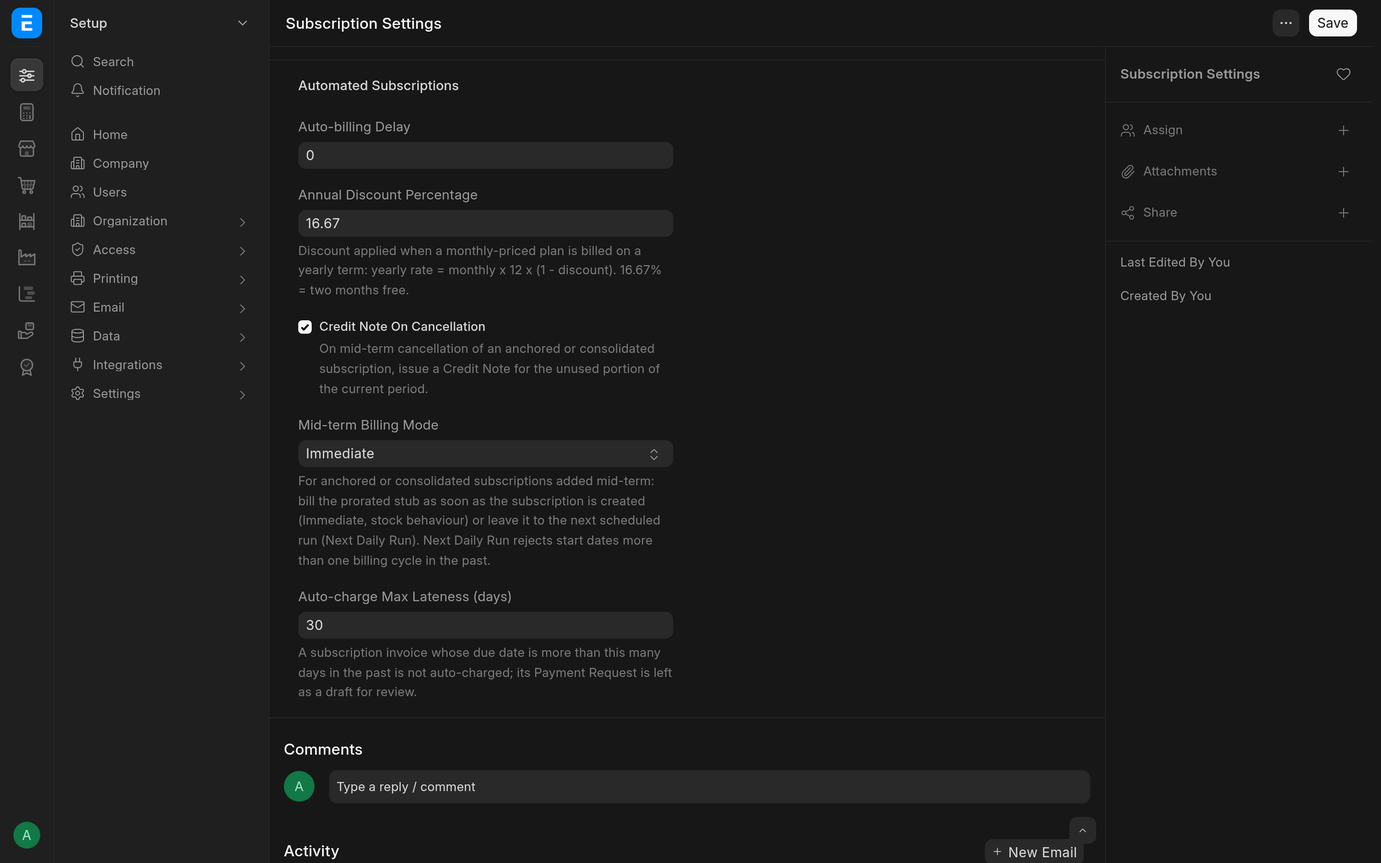
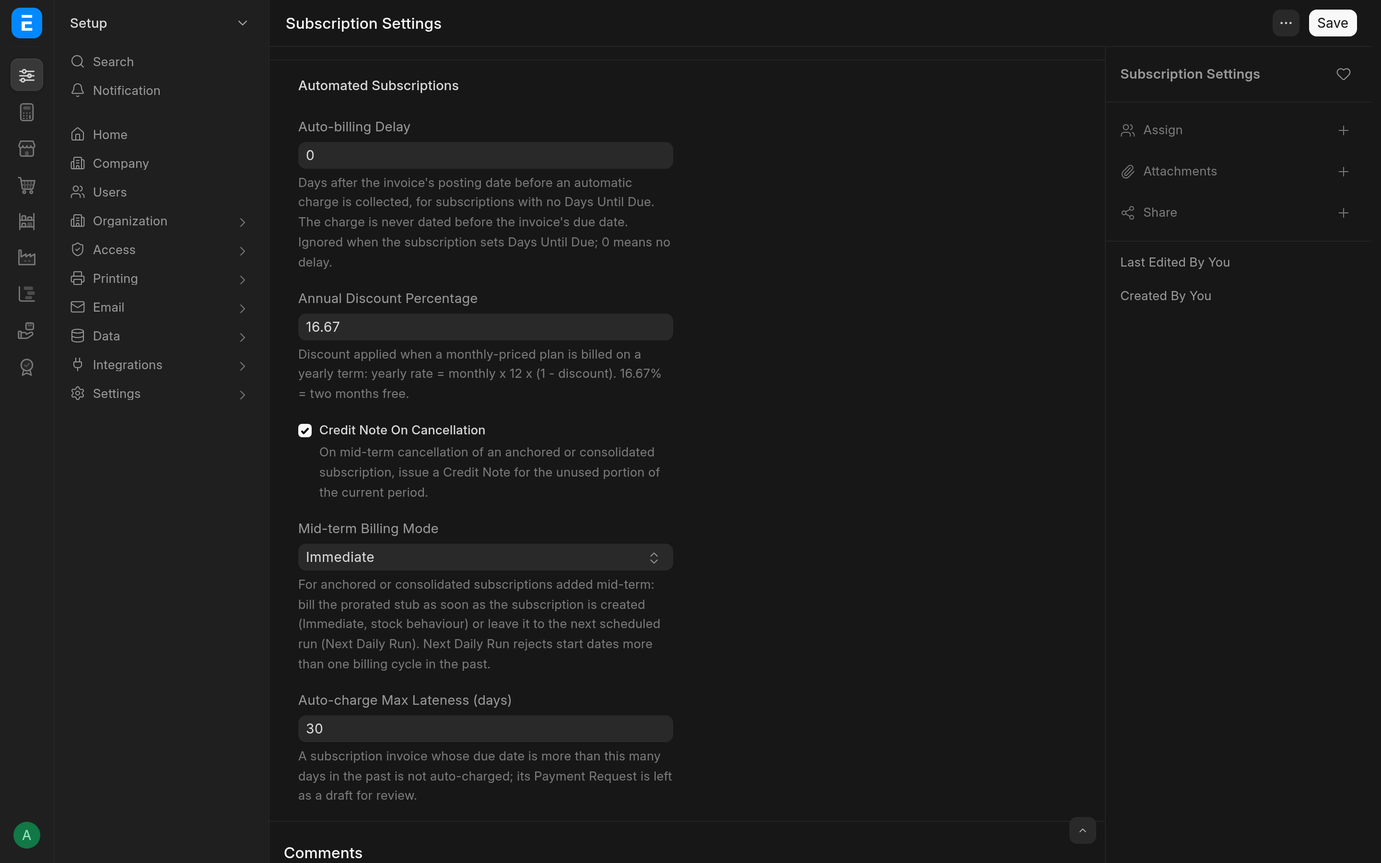
fix(payment-request): restore Auto-billing Delay as the Days Until Due fallback
The engine rewrite dated every subscription Payment Request on the invoice's
due date and stopped reading Subscription Settings > Auto-billing Delay. Read
it again with the semantics it had before the rewrite: when none of the
invoice's subscriptions sets Days Until Due and the delay is above 0, the
collection date is posting date + delay, but never earlier than the due date.
With Days Until Due, or a delay of 0 or blank, the collection date stays the
due date. The stale-invoice check keeps using the due date.

The field gets a description and a non-negative constraint, the README and
docs describe it and the Limitations entry is gone.

Claude-Session: https://claude.ai/code/session_01SvdEeMiewirZ3ifFoUix5F

Changed region(s): [[0.1875, 0.1867, 0.4688, 0.9333], [0.7188, 0.9644, 0.7812, 0.9956], [0.1875, 0.9644, 0.25, 0.9956]]

diff --git a/automated_subscriptions/automated_subscriptions/tests/test_payment_request.py b/automated_subscriptions/automated_subscriptions/tests/test_payment_request.py
@@ -85,6 +85,7 @@ class TestPaymentRequest(IntegrationTestCase):
 		frappe.clear_document_cache("Customer", CUSTOMER)
 		frappe.db.set_single_value("Selling Settings", "allow_multiple_items", 1)
 		frappe.db.set_single_value("Subscription Settings", "auto_charge_max_lateness_days", 30)
+		frappe.db.set_single_value("Subscription Settings", "auto_billing_delay", 0)
 		frappe.flags.subscription_billing = None
 		self.account = make_gateway_account(GATEWAY)
 		set_plan_gateway(MONTH_PLAN, self.account)
@@ -97,14 +98,14 @@ class TestPaymentRequest(IntegrationTestCase):
 		super().tearDown()
 
 	# ---- fixtures
-	def make_sub(self, plan, start_date=None):
+	def make_sub(self, plan, start_date=None, days_until_due=0):
 		sub = create_subscription(
 			party=CUSTOMER,
 			start_date=start_date or self.today,
 			plans=[{"plan": plan, "qty": 1}],
 			generate_invoice_at=BEGINNING,
 			submit_invoice=0,
-			days_until_due=0,  # the customer's NET15 template sets the due date
+			days_until_due=days_until_due,  # 0: the customer's NET15 template sets the due date
 			do_not_save=True,
 		)
 		frappe.flags.in_import = True  # insert without core's catch-up billing
@@ -114,11 +115,11 @@ class TestPaymentRequest(IntegrationTestCase):
 			frappe.flags.in_import = False
 		return get_subscription(sub.name)
 
-	def make_invoice(self, plans=(MONTH_PLAN,), posting_date=None, submit=True):
+	def make_invoice(self, plans=(MONTH_PLAN,), posting_date=None, submit=True, days_until_due=0, due_in=15):
 		"""One subscription per plan; the first sub's own draft (posting_date = its period start) carries the
 		other subs' lines, like a consolidated invoice. Submitting fires the on_submit hook."""
 		posting_date = posting_date or self.today
-		subs = [self.make_sub(plan, posting_date) for plan in plans]
+		subs = [self.make_sub(plan, posting_date, days_until_due) for plan in plans]
 		invoice = subs[0].create_invoice()
 		for sub, plan in zip(subs[1:], plans[1:], strict=True):
 			invoice.append(
@@ -135,7 +136,7 @@ class TestPaymentRequest(IntegrationTestCase):
 			)
 		invoice.save()
 		self.assertEqual(as_date(invoice.posting_date), as_date(posting_date))
-		self.assertEqual(as_date(invoice.due_date), as_date(add_days(posting_date, 15)))
+		self.assertEqual(as_date(invoice.due_date), as_date(add_days(posting_date, due_in)))
 		if submit:
 			invoice.submit()
 		return invoice
@@ -320,3 +321,130 @@ class TestPaymentRequest(IntegrationTestCase):
 		data = charge.call_args.args[0]
 		self.assertEqual(data["mandate"], "MD000AUTOSUBTEST")
 		self.assertEqual(data["charge_date"], str(as_date(invoice.due_date)))
+
+	# ---- (k) Auto-billing Delay: the fallback for subscriptions without Days Until Due
+	def set_delay(self, days):
+		frappe.db.set_single_value("Subscription Settings", "auto_billing_delay", days)
+
+	def drop_payment_terms(self):
+		frappe.db.set_value("Customer", CUSTOMER, "payment_terms", None)
+		frappe.clear_document_cache("Customer", CUSTOMER)
+
+	def charged_on(self, invoice):
+		pr = self.single_request(invoice)
+		self.assertEqual(pr.docstatus, 1)
+		return as_date(pr.transaction_date)
+
+	def test_delay_applies_without_days_until_due(self):
+		"""No payment terms and no Days Until Due: the invoice is due on its posting date and the charge is
+		collected Auto-billing Delay days later (posting date + delay, as before the engine rewrite)."""
+		self.drop_payment_terms()
+		self.set_delay(5)
+		with patch.object(PaymentRequest, VALIDATION, return_value=False):
+			invoice = self.make_invoice(due_in=0)
+		self.assertEqual(self.charged_on(invoice), as_date(add_days(invoice.posting_date, 5)))
+
+	def test_delay_never_collects_before_the_due_date(self):
+		"""With payment terms (NET15) and no Days Until Due, posting date + delay wins only when it is later
+		than the due date: the delay can move a charge later, never earlier."""
+		self.set_delay(20)
+		with patch.object(PaymentRequest, VALIDATION, return_value=False):
+			invoice = self.make_invoice()
+		self.assertEqual(self.charged_on(invoice), as_date(add_days(invoice.posting_date, 20)))
+
+		self.set_delay(5)
+		with patch.object(PaymentRequest, VALIDATION, return_value=False):
+			invoice = self.make_invoice()
+		self.assertEqual(self.charged_on(invoice), as_date(invoice.due_date))
+		self.assertEqual(self.charged_on(invoice), as_date(add_days(invoice.posting_date, 15)))
+
+	def test_delay_ignored_with_days_until_due(self):
+		"""A subscription with Days Until Due dates its invoice's due date itself; the delay does not apply,
+		even when it is longer."""
+		self.drop_payment_terms()
+		self.set_delay(20)
+		with patch.object(PaymentRequest, VALIDATION, return_value=False):
+			invoice = self.make_invoice(days_until_due=10, due_in=10)
+		self.assertEqual(self.charged_on(invoice), as_date(add_days(invoice.posting_date, 10)))
+
+	def test_delay_ignored_when_any_line_sets_days_until_due(self):
+		"""Consolidated invoices group subscriptions by Days Until Due, so they agree; if a hand-built invoice
+		mixes them, one subscription with Days Until Due is enough to keep the due date."""
+		self.drop_payment_terms()
+		self.set_delay(20)
+		set_plan_gateway(MONTH_PLAN_2, self.account)  # core checks the header subscription's plans' gateway
+		posting = self.today
+		with_due = self.make_sub(MONTH_PLAN, posting, days_until_due=10)
+		without_due = self.make_sub(MONTH_PLAN_2, posting)
+		invoice = without_due.create_invoice()
+		invoice.append(
+			"items",
+			{
+				"item_code": ITEM,
+				"qty": 1,
+				"rate": 900,
+				"subscription": with_due.name,
+				"subscription_plan": MONTH_PLAN,
+				"subscription_period_start": with_due.current_invoice_start,
+				"subscription_period_end": with_due.current_invoice_end,
+			},
+		)
+		invoice.save()
+		self.assertEqual(as_date(invoice.due_date), as_date(posting))
+		with patch.object(PaymentRequest, VALIDATION, return_value=False):
+			invoice.submit()
+		self.assertEqual(self.charged_on(invoice), as_date(posting))
+
+	def test_zero_or_blank_delay_is_no_delay(self):
+		self.drop_payment_terms()
+		self.set_delay(0)
+		with patch.object(PaymentRequest, VALIDATION, return_value=False):
+			invoice = self.make_invoice(due_in=0)
+		self.assertEqual(self.charged_on(invoice), as_date(invoice.posting_date))
+
+		# blank: no tabSingles row at all (a site that never saved the field)
+		frappe.db.delete("Singles", {"doctype": "Subscription Settings", "field": "auto_billing_delay"})
+		frappe.clear_document_cache("Subscription Settings", "Subscription Settings")
+		with patch.object(PaymentRequest, VALIDATION, return_value=False):
+			invoice = self.make_invoice(due_in=0)
+		self.assertEqual(self.charged_on(invoice), as_date(invoice.posting_date))
+
+		# a negative value (written past the form's non-negative check) is treated as no delay
+		self.set_delay(-5)
+		with patch.object(PaymentRequest, VALIDATION, return_value=False):
+			invoice = self.make_invoice(due_in=0)
+		self.assertEqual(self.charged_on(invoice), as_date(invoice.posting_date))
+
+	def test_delay_does_not_revive_a_stale_invoice(self):
+		"""Staleness is judged on the due date: a delay that puts the collection date inside the lateness
+		window still leaves an invoice whose due date is too old as a draft."""
+		self.set_delay(60)  # posting - 60 + 60 = today, but due = today - 45
+		with patch.object(PaymentRequest, VALIDATION, return_value=False) as validation:
+			invoice = self.make_invoice(posting_date=add_days(self.today, -60))
+		validation.assert_not_called()
+		pr = self.single_request(invoice)
+		self.assertEqual(pr.docstatus, 0)
+		self.assertEqual(as_date(pr.transaction_date), as_date(self.today))
+
+	def test_gocardless_charge_date_carries_the_delay(self):
+		"""End to end through stock payments' GoCardless: the delayed collection date is the mandate charge date."""
+		self.drop_payment_terms()
+		self.set_delay(7)
+		controller = frappe.new_doc("GoCardless Settings")
+		with (
+			patch(
+				"erpnext.accounts.doctype.payment_request.payment_request._get_payment_gateway_controller",
+				return_value=controller,
+			),
+			patch.object(
+				GoCardlessSettings,
+				"check_mandate_validity",
+				return_value=({"mandate": "MD000AUTOSUBTEST"}, add_days(self.today, 3)),
+			),
+			patch.object(GoCardlessSettings, "create_payment_request") as charge,
+		):
+			invoice = self.make_invoice(due_in=0)
+		charge.assert_called()
+		self.assertEqual(
+			charge.call_args.args[0]["charge_date"], str(as_date(add_days(invoice.posting_date, 7)))
+		)

diff --git a/automated_subscriptions/automated_subscriptions/custom/sales_invoice.py b/automated_subscriptions/automated_subscriptions/custom/sales_invoice.py
@@ -130,6 +130,28 @@ def resolve_payment_gateway_account(doc) -> str | None:
 	return gateways.pop()
 
 
+def get_collection_date(doc) -> date:
+	"""The date the automatic charge is collected on (the Payment Request's transaction_date).
+
+	Base: the invoice's payment-terms due date (posting date when it has none). When none of the invoice's
+	subscriptions sets Days Until Due, Subscription Settings > Auto-billing Delay applies as a fallback, as it
+	did before the engine rewrite: collect on posting date + delay, but never before the due date, so the
+	setting can only move a charge later. A subscription with Days Until Due already dates its invoice's due
+	date (core appends a payment-schedule row at posting date + days_until_due), and the delay is ignored.
+	0 or blank means no delay; a negative value is treated as 0."""
+	due_date = as_date(doc.due_date or doc.posting_date)
+	delay = max(cint(get_settings().auto_billing_delay), 0)
+	if not delay:
+		return due_date
+	subscriptions = get_invoice_subscriptions(doc)
+	if any(
+		cint(days)
+		for days in frappe.get_all("Subscription", {"name": ("in", subscriptions)}, pluck="days_until_due")
+	):
+		return due_date  # Days Until Due set: the due date is the collection date
+	return max(due_date, as_date(add_days(doc.posting_date, delay)))
+
+
 def subscription_payment_request(doc: BaseSalesInvoice, method=None):
 	"""on_submit doc_event: raise (and charge, when the gateway handles it) a Payment Request for a
 	subscription invoice. Rules, in order: not a subscription invoice; a return or nothing outstanding
@@ -140,7 +162,9 @@ def subscription_payment_request(doc: BaseSalesInvoice, method=None):
 	as a draft Payment Request with a comment and an Error Log; otherwise create, charge and submit.
 
 	Late fires are normal (posting_date = the period start for "Beginning") and must charge: nothing here
-	gates on posting_date == today. The collection date is the invoice's payment-terms due date."""
+	gates on posting_date == today. The collection date is the invoice's payment-terms due date, pushed later
+	by Auto-billing Delay for subscriptions without Days Until Due (get_collection_date). Staleness is judged
+	on the due date alone, so the delay never revives an invoice that is too old to charge."""
 	if not is_subscription_invoice(doc):
 		return
 	if doc.get("is_return") or flt(doc.outstanding_amount) <= 0:
@@ -167,10 +191,10 @@ def subscription_payment_request(doc: BaseSalesInvoice, method=None):
 	pr.is_a_subscription = 0
 	pr.set("subscription_plans", [])
 	due_date = as_date(doc.due_date or doc.posting_date)
-	# the payment-terms due date is the collection date. An ISO string, not a date: stock payments' GoCardless
-	# compares it with the mandate's next_possible_charge_date (a string from the API) via max(), and a date there
-	# raises TypeError, which payment_gateway_validation swallows into False: no charge and no email
-	pr.transaction_date = due_date.isoformat()
+	# the collection date (due date, or later with Auto-billing Delay). An ISO string, not a date: stock payments'
+	# GoCardless compares it with the mandate's next_possible_charge_date (a string from the API) via max(), and a
+	# date there raises TypeError, which payment_gateway_validation swallows into False: no charge and no email
+	pr.transaction_date = get_collection_date(doc).isoformat()
 	pr.save(ignore_permissions=True)
 	max_lateness = cint(get_settings().auto_charge_max_lateness_days)
 	if due_date < as_date(add_days(nowdate(), -max_lateness)):

diff --git a/automated_subscriptions/automated_subscriptions/tests/test_fields.py b/automated_subscriptions/automated_subscriptions/tests/test_fields.py
@@ -30,6 +30,7 @@ OUR_SETTINGS_FIELDS = (
 	"credit_note_on_cancellation",
 	"mid_term_billing_mode",
 	"auto_charge_max_lateness_days",
+	"auto_billing_delay",
 )
 
 
@@ -106,6 +107,13 @@ class TestFields(IntegrationTestCase):
 		self.assertEqual(field.in_standard_filter, 1)
 		self.assertEqual(meta.search_fields, "party, service_identifier")
 
+	def test_auto_billing_delay_field(self):
+		field = frappe.get_meta("Subscription Settings").get_field("auto_billing_delay")
+		self.assertIsNotNone(field)
+		self.assertEqual(field.fieldtype, "Int")
+		self.assertEqual(field.non_negative, 1)
+		self.assertIn("Days Until Due", field.description)
+
 	def test_settings_defaults_when_never_saved(self):
 		frappe.db.delete(
 			"Singles", {"doctype": "Subscription Settings", "field": ("in", list(OUR_SETTINGS_FIELDS))}
@@ -117,6 +125,7 @@ class TestFields(IntegrationTestCase):
 		self.assertEqual(settings.credit_note_on_cancellation, 1)
 		self.assertEqual(settings.mid_term_billing_mode, "Immediate")
 		self.assertEqual(settings.auto_charge_max_lateness_days, 30)
+		self.assertEqual(settings.auto_billing_delay, 0)
 		# core fields still come through (reset_settings saved them)
 		self.assertEqual(settings.grace_period, 0)
 		self.assertEqual(settings.cancel_after_grace, 0)

diff --git a/automated_subscriptions/automated_subscriptions/billing/settings.py b/automated_subscriptions/automated_subscriptions/billing/settings.py
@@ -17,6 +17,7 @@ FIELDS = (
 	"credit_note_on_cancellation",
 	"mid_term_billing_mode",
 	"auto_charge_max_lateness_days",
+	"auto_billing_delay",
 )
 
 

diff --git a/README.md b/README.md
@@ -43,6 +43,8 @@ its fields set is billed by stock ERPNext.
 - **Payment Requests for subscription invoices.** Every submitted subscription invoice with an outstanding amount
   gets a Payment Request through the gateway set on its plans. With a gateway that takes the payment itself, such as
   GoCardless with a mandate, the request is submitted without e-mailing the customer.
+- **Delayed collection.** An optional **Auto-billing Delay** pushes the charge date of subscriptions without
+  **Days Until Due** a set number of days past the invoice date.
 - **Safe defaults.** Credit notes and fully paid invoices are skipped, an invoice whose due date is too far in the
   past is left as a draft Payment Request for review, and a site-level kill switch stops all automatic charging.
 - **Billing anchors.** Align a customer's subscriptions to calendar months or years, or to an anniversary date, with
@@ -116,7 +118,7 @@ The app adds an **Automated Subscriptions** section to **Subscription Settings**
 | Annual Discount Percentage      | 16.67     | Used when a monthly plan is billed on a yearly term: yearly rate = monthly rate x 12 x (1 - discount).                                                                        |
 | Credit Note On Cancellation     | on        | On mid-term cancellation of an anchored or consolidated subscription, issue a Credit Note for the unused part of the period.                                                  |
 | Mid-term Billing Mode           | Immediate | For an anchored or consolidated subscription added mid-term: bill the prorated first invoice when the subscription is created (Immediate), or leave it to the next daily run. |
-| Auto-billing Delay              | 0         | Not read by the current code (see Limitations).                                                                                                                               |
+| Auto-billing Delay              | 0         | For subscriptions with no **Days Until Due**: collect the automatic charge this many days after the invoice's posting date, never before its due date. 0 means no delay.      |
 
 The defaults are written to the database on install and on every `bench migrate`, so the form and the engine see the
 same values.
@@ -153,7 +155,13 @@ An `on_submit` hook on Sales Invoice creates a Payment Request when all of these
   person);
 - the due date is not older than **Auto-charge Max Lateness**.
 
-The Payment Request is dated on the invoice's due date, so a late-running scheduler still charges. If the gateway
+The Payment Request is dated on the collection date, so a late-running scheduler still charges. The collection
+date is the invoice's due date, with one exception: when none of the subscriptions on the invoice sets **Days Until
+Due** and **Auto-billing Delay** is above 0, it is the posting date plus the delay, or the due date if that is later.
+A subscription with **Days Until Due** already sets the invoice's due date to the posting date plus those days, so
+the delay is ignored for it. With GoCardless the collection date is the mandate's charge date (or the mandate's
+next possible charge date, if later); the Payment Request itself is still raised and submitted when the invoice is.
+The lateness check above always uses the due date, so a delay never revives an invoice that is too old to charge. If the gateway
 takes the payment itself, as GoCardless does for a mandate, the request is submitted without an e-mail; otherwise it
 is submitted normally and the customer is notified. An invoice that is too old gets a draft Payment Request with a
 comment and an Error Log entry.
@@ -215,7 +223,6 @@ that has been credited already is refused rather than credited twice.
   payment events).
 - Two lines with the same item and description cannot share a consolidated invoice unless Selling Settings allows an
   item to be added more than once; give each subscription its own Service Identifier.
-- **Auto-billing Delay** in Subscription Settings is a leftover field; changing it has no effect.
 
 <!-- frappe-nix:begin support -->
 

diff --git a/docs/README.md b/docs/README.md
@@ -18,6 +18,8 @@ its fields set is billed by stock ERPNext.
 - **Payment Requests for subscription invoices.** Every submitted subscription invoice with an outstanding amount
   gets a Payment Request through the gateway set on its plans. With a gateway that takes the payment itself, such as
   GoCardless with a mandate, the request is submitted without e-mailing the customer.
+- **Delayed collection.** An optional **Auto-billing Delay** pushes the charge date of subscriptions without
+  **Days Until Due** a set number of days past the invoice date.
 - **Safe defaults.** Credit notes and fully paid invoices are skipped, an invoice whose due date is too far in the
   past is left as a draft Payment Request for review, and a site-level kill switch stops all automatic charging.
 - **Billing anchors.** Align a customer's subscriptions to calendar months or years, or to an anniversary date, with
@@ -65,7 +67,7 @@ The app adds an **Automated Subscriptions** section to **Subscription Settings**
 | Annual Discount Percentage      | 16.67     | Used when a monthly plan is billed on a yearly term: yearly rate = monthly rate x 12 x (1 - discount).                                                                        |
 | Credit Note On Cancellation     | on        | On mid-term cancellation of an anchored or consolidated subscription, issue a Credit Note for the unused part of the period.                                                  |
 | Mid-term Billing Mode           | Immediate | For an anchored or consolidated subscription added mid-term: bill the prorated first invoice when the subscription is created (Immediate), or leave it to the next daily run. |
-| Auto-billing Delay              | 0         | Not read by the current code (see Limitations).                                                                                                                               |
+| Auto-billing Delay              | 0         | For subscriptions with no **Days Until Due**: collect the automatic charge this many days after the invoice's posting date, never before its due date. 0 means no delay.      |
 
 The defaults are written to the database on install and on every `bench migrate`, so the form and the engine see the
 same values.
@@ -102,7 +104,13 @@ An `on_submit` hook on Sales Invoice creates a Payment Request when all of these
   person);
 - the due date is not older than **Auto-charge Max Lateness**.
 
-The Payment Request is dated on the invoice's due date, so a late-running scheduler still charges. If the gateway
+The Payment Request is dated on the collection date, so a late-running scheduler still charges. The collection
+date is the invoice's due date, with one exception: when none of the subscriptions on the invoice sets **Days Until
+Due** and **Auto-billing Delay** is above 0, it is the posting date plus the delay, or the due date if that is later.
+A subscription with **Days Until Due** already sets the invoice's due date to the posting date plus those days, so
+the delay is ignored for it. With GoCardless the collection date is the mandate's charge date (or the mandate's
+next possible charge date, if later); the Payment Request itself is still raised and submitted when the invoice is.
+The lateness check above always uses the due date, so a delay never revives an invoice that is too old to charge. If the gateway
 takes the payment itself, as GoCardless does for a mandate, the request is submitted without an e-mail; otherwise it
 is submitted normally and the customer is notified. An invoice that is too old gets a draft Payment Request with a
 comment and an Error Log entry.
@@ -164,7 +172,6 @@ that has been credited already is refused rather than credited twice.
   payment events).
 - Two lines with the same item and description cannot share a consolidated invoice unless Selling Settings allows an
   item to be added more than once; give each subscription its own Service Identifier.
-- **Auto-billing Delay** in Subscription Settings is a leftover field; changing it has no effect.
 
 ## Development
 

diff --git a/docs/DECISIONS.md b/docs/DECISIONS.md
@@ -39,6 +39,7 @@ app that consumes this engine.
 | D-21  | `Subscription Settings` gets 3 new fields                                                                                              | 4: also a lateness threshold for auto-charging                                                                                                                                                                                                                                                                      | The engine reads settings through its own accessor because Frappe's "Singles" defaults are not materialised into the database until the single document is saved once — a bare field default is invisible to a query.                                                                                                                                                                                                                                                    |
 | D-22  | Test scaffolding assumes `freeze_time` and per-test rollback                                                                           | "Today" is frozen by patching the lowest-level date function directly; rollback is explicit in `tearDown`; fixtures are created in `setUp`                                                                                                                                                                          | The `freezegun` package isn't a dependency here; the integration test base class only rolls back once per test class, not per test method.                                                                                                                                                                                                                                                                                                                               |
 | D-23  | Invoice status-refresh hook set: the Subscription-status-refresh mixin only                                                            | Also an `on_cancel` doc event; deliberately no `on_submit` status hook                                                                                                                                                                                                                                              | Desk-driven cancellation happens outside the engine's own `process()` call; wiring a status refresh into `on_submit` would raise a timestamp-mismatch error from inside the consolidation runner, which already re-saves the subscription itself in the same call.                                                                                                                                                                                                       |
+| D-24  | (restored after the engine rewrite dropped it)                                                                                         | `Subscription Settings.auto_billing_delay` is read again: for an invoice none of whose subscriptions sets `days_until_due`, the Payment Request `transaction_date` is `max(due_date, posting_date + delay)`; with `days_until_due` it stays `due_date`                                                              | Restores the fallback of the pre-rewrite code (posting date + delay when `days_until_due` is blank) without ever collecting before the payment-terms due date the rewrite introduced; staleness stays on `due_date` so a delay cannot revive an invoice too old to charge.                                                                                                                                                                                               |
 
 ## Where deployment-specific decisions live
 
